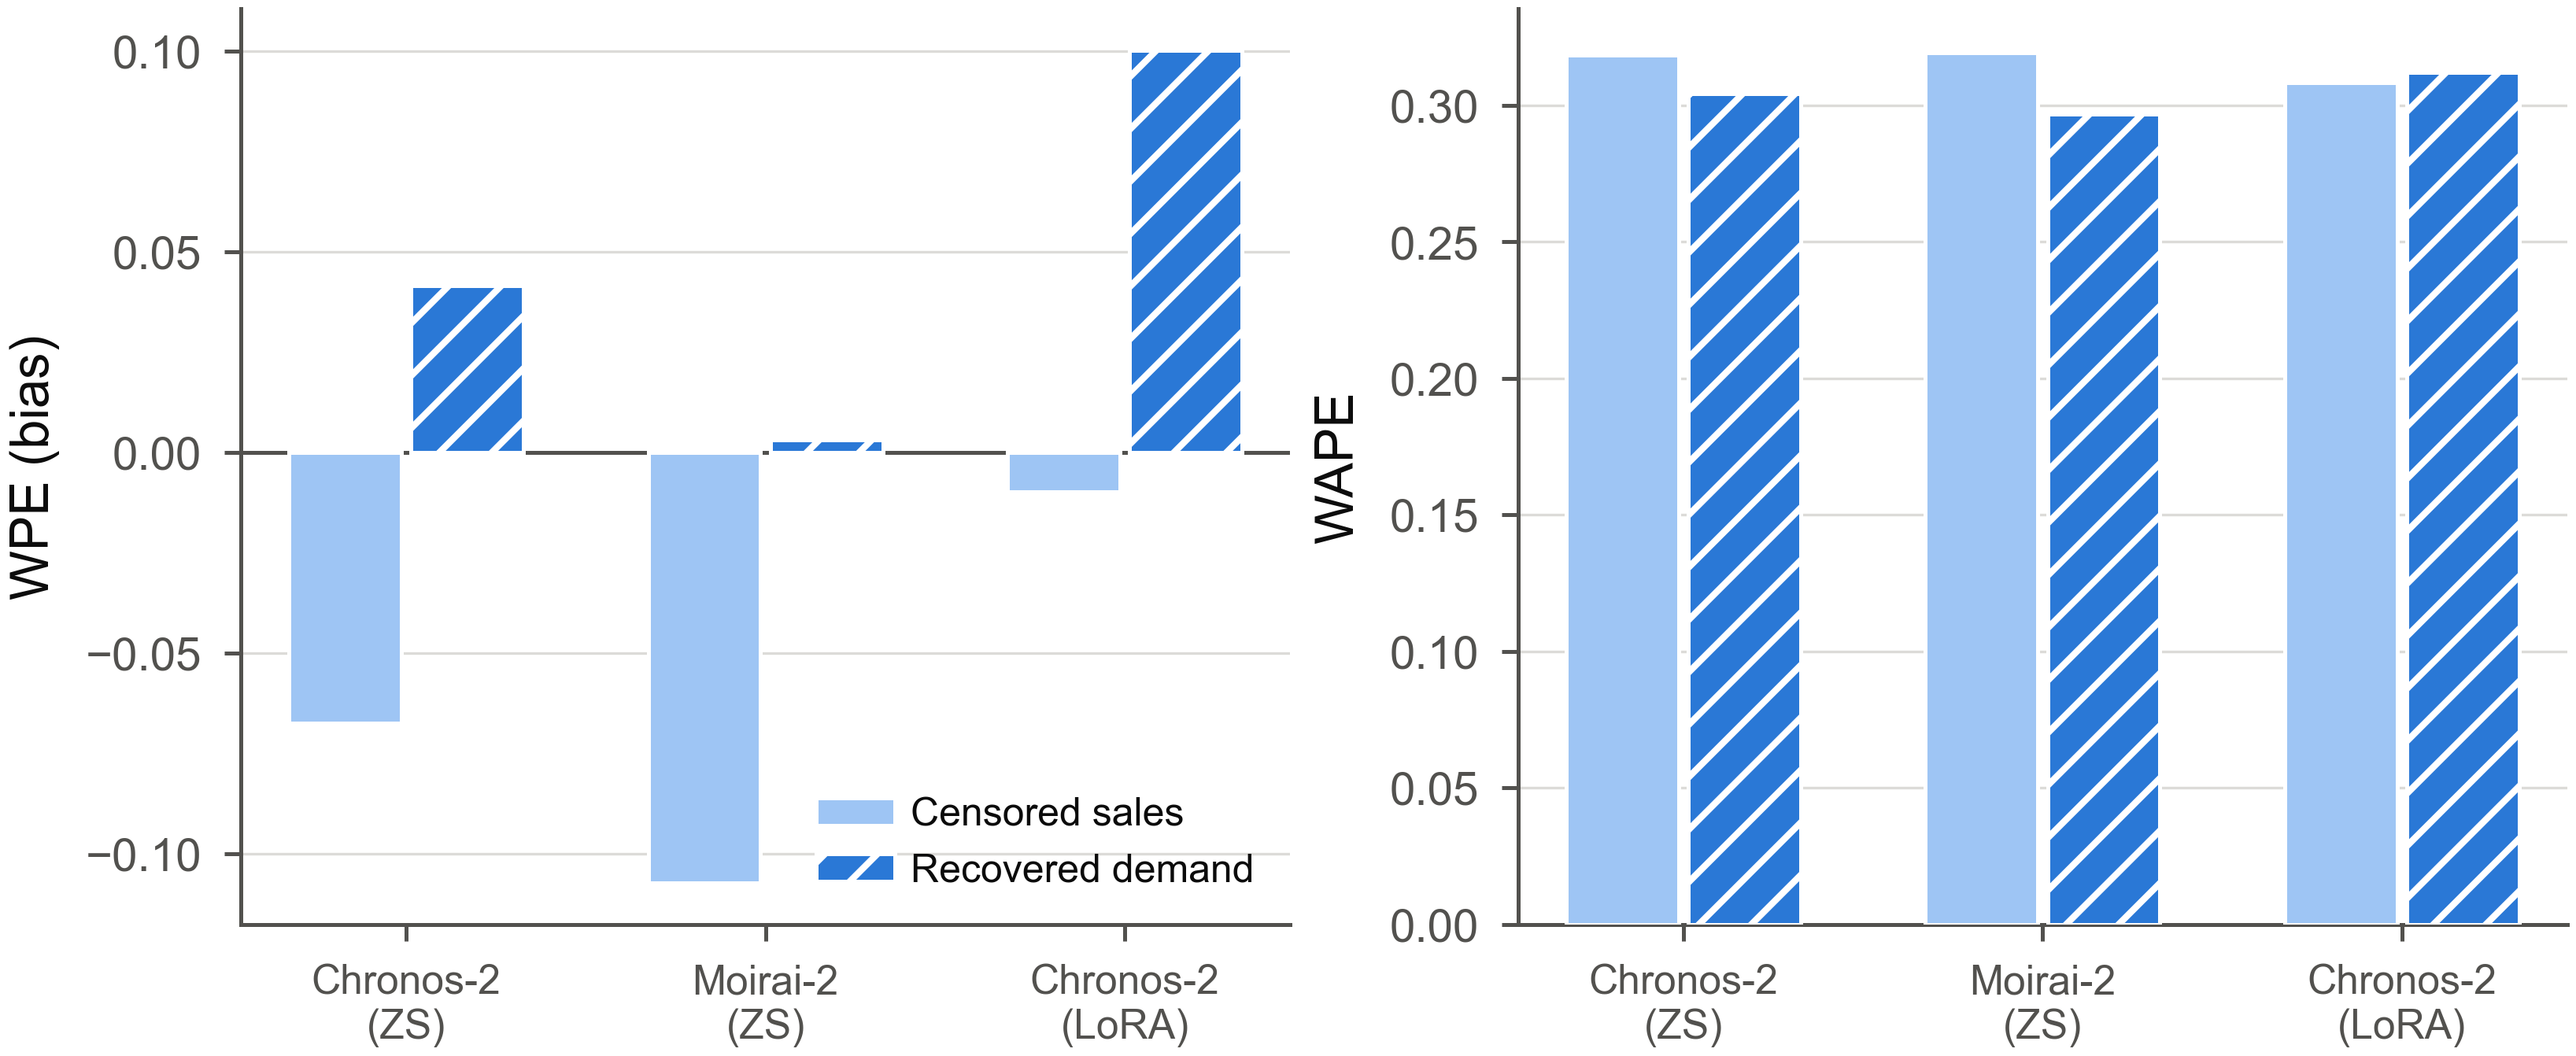
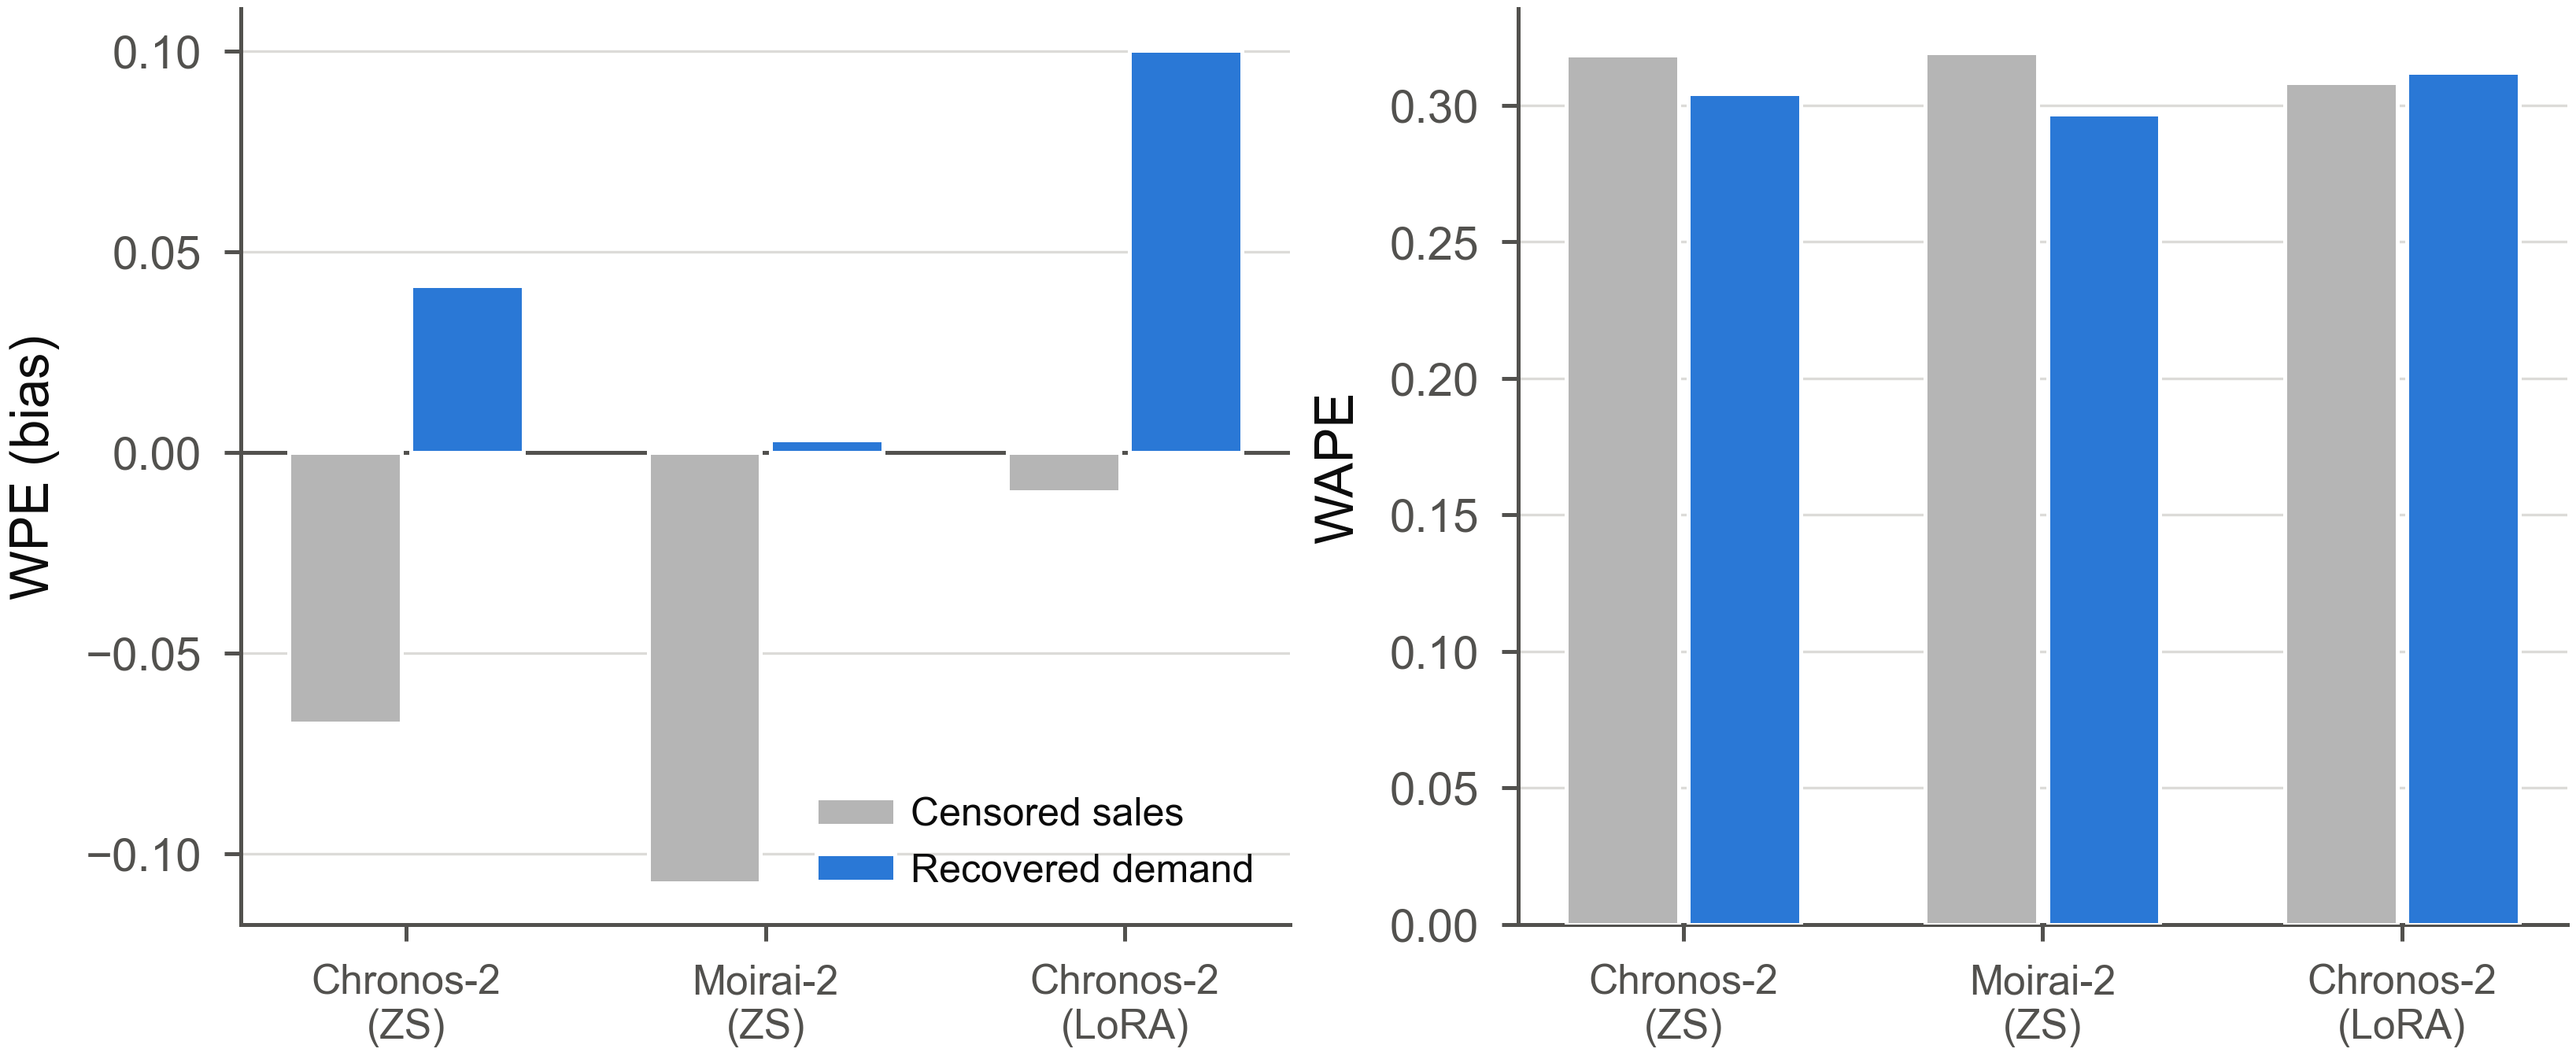
Journal-style figure revisions: per-method colors, no hatching
Quadrant figure: distinct color per method with a right-hand legend
(following common practice, e.g. Theodorou et al. 2025), tightened
x-limits. Recovery factorial: solid grey/blue paired bars instead of
hatching.

diff --git a/src/viz/make_figures.py b/src/viz/make_figures.py
@@ -156,11 +156,12 @@ def fig3_censoring_factorial() -> None:
     w = 0.34
     fig, axes = plt.subplots(1, 2, figsize=(ONE_HALF, 2.3))
     for ax, metric, ylab in [(axes[0], "wpe", "WPE (bias)"), (axes[1], "wape", "WAPE")]:
-        for k, (cond, hatch, col) in enumerate([("Censored sales", "", "#9ec5f4"),
-                                                ("Recovered demand", "///", "#2a78d6")]):
+        # 학술지 관행: 빗금 대신 무채색/유채색 단색 쌍 (before/after)
+        for k, (cond, col) in enumerate([("Censored sales", "#b5b5b5"),
+                                         ("Recovered demand", "#2a78d6")]):
             vals = [d[(d.model == m) & (d.cond == cond)][metric].mean() for m in models]
             ax.bar(x + (k - 0.5) * w, vals, w * 0.92, label=cond, color=col,
-                   edgecolor="white", linewidth=0.6, hatch=hatch, zorder=3)
+                   edgecolor="white", linewidth=0.6, zorder=3)
         ax.set_xticks(x, [m.replace(" (", "\n(") for m in models], fontsize=6.2)
         ax.set_ylabel(ylab)
         ax.grid(axis="x", visible=False)
@@ -205,28 +206,23 @@ def fig5_quadrant(dataset: str) -> None:
     show = [c for c in rq.index if any(k in c for k in
             ["chronos2_lt_raw", "chronos2_lt_mask", "tirex_lt_mask", "moirai2_lt_mask",
              "lightgbm", "ets_lt_raw", "ft_lora_r16_s0"])]
-    fig, ax = plt.subplots(figsize=(SINGLE, 2.5))
+    # 학술지 관행(예: Theodorou et al. 2025 EJOR Fig.4): 방법별 고유 색 + 우측 범례
+    method_palette = ["#1f6fb2", "#e07b39", "#2e8b57", "#c8443c",
+                      "#7b5bb5", "#8c6d31", "#3aa6b9"]
+    fig, ax = plt.subplots(figsize=(SINGLE + 1.1, 2.5))
     x = np.arange(len(order))
-    texts = []
-    for run in show:
+    for run, col in zip(show, method_palette):
         style = "--" if "mask" in run else "-"
-        ax.plot(x, rq.loc[run], style, marker="o", ms=3,
-                color=FAMILY_COLORS[family_of(run)], lw=1.0, zorder=3)
-        texts.append(ax.annotate(short_label(run), (x[-1], rq.loc[run].iloc[-1]),
-                                 xytext=(x[-1] + 0.08, rq.loc[run].iloc[-1]),
-                                 fontsize=5.8, color=INK_2, va="center"))
-    try:  # 끝점 라벨 충돌 회피 (세로로만 이동)
-        from adjustText import adjust_text
-        adjust_text(texts, ax=ax, only_move={"text": "y", "static": "y"},
-                    expand=(1.05, 1.6), arrowprops=dict(arrowstyle="-", color=REFLINE, lw=0.3))
-    except ImportError:
-        pass
+        ax.plot(x, rq.loc[run], style, marker="o", ms=3, color=col, lw=1.1,
+                label=short_label(run), zorder=3)
     ax.set_xticks(x, order, fontsize=6.5)
     ax.set_xlabel("Demand pattern (ADI $\\times$ CV$^2$ quadrant)")
     ax.set_ylabel("Mean rank (lower is better)")
     ax.invert_yaxis()
-    ax.set_xlim(-0.2, len(order) + 0.55)
+    ax.set_xlim(-0.2, len(order) - 0.8)
     ax.grid(axis="x", visible=False)
+    ax.legend(loc="center left", bbox_to_anchor=(1.01, 0.5), fontsize=6,
+              frameon=False, handlelength=1.6, labelspacing=0.45)
     fig.tight_layout(pad=0.4)
     savefig(fig, FIGDIR / f"fig4_quadrant_{dataset}.png")
 
